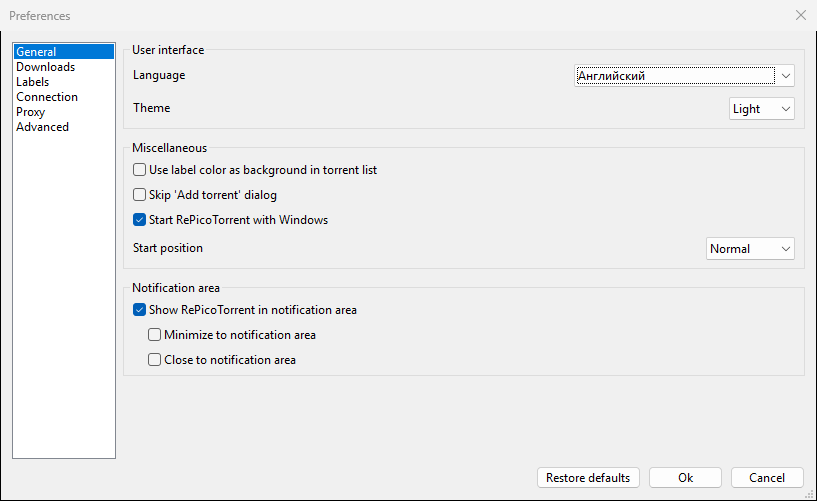
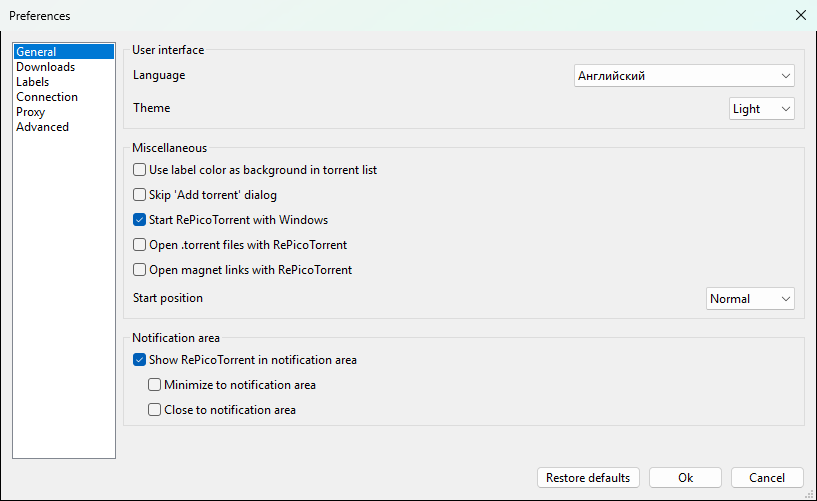
Open .torrent files and magnet links with RePicoTorrent
Preferences > General registers the program for the current user, so Windows lists it in Open with and Default apps; if another program is the default there, offers to open those settings.

diff --git a/src/picotorrent/ui/dialogs/preferencesgeneralpage.cpp b/src/picotorrent/ui/dialogs/preferencesgeneralpage.cpp
@@ -1,6 +1,11 @@
 #include "preferencesgeneralpage.hpp"
 
+#include <Shlwapi.h>
+#include <ShlObj.h>
+#include <shellapi.h>
 #include <strsafe.h>
+
+#include <vector>
 
 #include <boost/log/trivial.hpp>
 
@@ -78,6 +83,128 @@ private:
     HKEY m_key;
 };
 
+// Per-user registration (HKCU, no admin) of .torrent files or magnet links.
+// It makes Windows list RePicoTorrent in "Open with" and in Default apps; it
+// becomes the default only while the user has not picked another program
+// there - Windows does not let programs take a picked default over.
+struct Association
+{
+    // ext: ".torrent" or "magnet"
+    explicit Association(std::wstring ext)
+        : m_ext(std::move(ext)),
+        m_isProtocol(m_ext == L"magnet"),
+        m_progId(m_isProtocol ? L"RePicoTorrent.magnet" : L"RePicoTorrent.torrent")
+    {
+        wchar_t exe[MAX_PATH];
+        GetModuleFileName(NULL, exe, ARRAYSIZE(exe));
+        m_exe = exe;
+    }
+
+    // Whether Windows opens them with this copy of the program.
+    bool IsDefault()
+    {
+        wchar_t exe[MAX_PATH];
+        DWORD size = ARRAYSIZE(exe);
+
+        // 0x1000 is ASSOCF_IS_PROTOCOL (Windows 8), hidden by our _WIN32_WINNT.
+        return AssocQueryString(m_isProtocol ? 0x1000 : ASSOCF_NONE, ASSOCSTR_EXECUTABLE,
+            m_ext.c_str(), L"open", exe, &size) == S_OK
+            && _wcsicmp(exe, m_exe.c_str()) == 0;
+    }
+
+    void Register()
+    {
+        std::wstring const command = L"\"" + m_exe + L"\" \"%1\"";
+        std::wstring const icon = L"\"" + m_exe + L"\",0";
+
+        // Magnet links go to the protocol key itself as well: browsers look
+        // there when no default is picked.
+        for (auto const& key : m_isProtocol ? std::vector{ m_progId, m_ext } : std::vector{ m_progId })
+        {
+            Set(Classes + key, L"", m_isProtocol ? L"URL:Magnet link" : L"BitTorrent file");
+            if (m_isProtocol) { Set(Classes + key, L"URL Protocol", L""); }
+            Set(Classes + key + L"\\DefaultIcon", L"", icon);
+            Set(Classes + key + L"\\shell\\open\\command", L"", command);
+        }
+
+        if (!m_isProtocol)
+        {
+            Set(Classes + m_ext, L"", m_progId);
+            Set(Classes + m_ext + L"\\OpenWithProgids", m_progId, L"");
+        }
+
+        Set(Capabilities, L"ApplicationName", L"RePicoTorrent");
+        Set(Capabilities, L"ApplicationDescription", L"BitTorrent client");
+        Set(CapabilitiesList(), m_ext, m_progId);
+        Set(L"Software\\RegisteredApplications", L"RePicoTorrent", Capabilities);
+
+        SHChangeNotify(SHCNE_ASSOCCHANGED, SHCNF_IDLIST, nullptr, nullptr);
+    }
+
+    // Takes back what Register wrote, leaving keys of other programs alone.
+    void Unregister()
+    {
+        RegDeleteTree(HKEY_CURRENT_USER, (Classes + m_progId).c_str());
+
+        if (m_isProtocol)
+        {
+            if (Get(Classes + m_ext + L"\\shell\\open\\command") == L"\"" + m_exe + L"\" \"%1\"")
+            {
+                RegDeleteTree(HKEY_CURRENT_USER, (Classes + m_ext).c_str());
+            }
+        }
+        else
+        {
+            if (Get(Classes + m_ext) == m_progId) { RegDeleteKeyValue(HKEY_CURRENT_USER, (Classes + m_ext).c_str(), nullptr); }
+            RegDeleteKeyValue(HKEY_CURRENT_USER, (Classes + m_ext + L"\\OpenWithProgids").c_str(), m_progId.c_str());
+            SHDeleteEmptyKey(HKEY_CURRENT_USER, (Classes + m_ext + L"\\OpenWithProgids").c_str());
+            SHDeleteEmptyKey(HKEY_CURRENT_USER, (Classes + m_ext).c_str());
+        }
+
+        RegDeleteKeyValue(HKEY_CURRENT_USER, CapabilitiesList().c_str(), m_ext.c_str());
+
+        // The other kind may still be registered.
+        if (Get(Classes + L"RePicoTorrent.torrent").empty() && Get(Classes + L"RePicoTorrent.magnet").empty())
+        {
+            RegDeleteTree(HKEY_CURRENT_USER, L"Software\\RePicoTorrent");
+            RegDeleteKeyValue(HKEY_CURRENT_USER, L"Software\\RegisteredApplications", L"RePicoTorrent");
+        }
+
+        SHChangeNotify(SHCNE_ASSOCCHANGED, SHCNF_IDLIST, nullptr, nullptr);
+    }
+
+private:
+    static inline std::wstring const Classes = L"Software\\Classes\\";
+    static inline std::wstring const Capabilities = L"Software\\RePicoTorrent\\Capabilities";
+
+    std::wstring CapabilitiesList()
+    {
+        return Capabilities + (m_isProtocol ? L"\\URLAssociations" : L"\\FileAssociations");
+    }
+
+    static void Set(std::wstring const& key, std::wstring const& name, std::wstring const& value)
+    {
+        RegSetKeyValue(HKEY_CURRENT_USER, key.c_str(), name.empty() ? nullptr : name.c_str(), REG_SZ,
+            value.c_str(), static_cast<DWORD>((value.size() + 1) * sizeof(wchar_t)));
+    }
+
+    // The default value of a key, or "".
+    static std::wstring Get(std::wstring const& key)
+    {
+        wchar_t value[MAX_PATH * 2];
+        DWORD size = sizeof(value);
+
+        return RegGetValue(HKEY_CURRENT_USER, key.c_str(), nullptr, RRF_RT_REG_SZ, nullptr, value, &size) == ERROR_SUCCESS
+            ? value
+            : L"";
+    }
+
+    std::wstring m_ext;
+    bool m_isProtocol;
+    std::wstring m_progId;
+    std::wstring m_exe;
+};
+
 using pt::Core::Configuration;
 using pt::UI::Dialogs::PreferencesGeneralPage;
 
@@ -103,6 +230,8 @@ PreferencesGeneralPage::PreferencesGeneralPage(wxWindow* parent, std::shared_ptr
     m_skipAddTorrentDialog = new wxCheckBox(miscSizer->GetStaticBox(), wxID_ANY, i18n("skip_add_torrent_dialog"));
     m_autoStart = new wxCheckBox(miscSizer->GetStaticBox(), wxID_ANY, i18n("start_with_windows"));
     m_startPosition = new wxChoice(miscSizer->GetStaticBox(), wxID_ANY);
+    m_associateTorrents = new wxCheckBox(miscSizer->GetStaticBox(), wxID_ANY, i18n("associate_torrent_files"));
+    m_associateMagnets = new wxCheckBox(miscSizer->GetStaticBox(), wxID_ANY, i18n("associate_magnet_links"));
 
     miscGrid->AddGrowableCol(1, 1);
     miscGrid->Add(m_labelColor, 0, wxALIGN_CENTER_VERTICAL);
@@ -110,6 +239,10 @@ PreferencesGeneralPage::PreferencesGeneralPage(wxWindow* parent, std::shared_ptr
     miscGrid->Add(m_skipAddTorrentDialog, 0, wxALIGN_CENTER_VERTICAL);
     miscGrid->Add(0, 0);
     miscGrid->Add(m_autoStart, 0, wxALIGN_CENTER_VERTICAL);
+    miscGrid->Add(0, 0);
+    miscGrid->Add(m_associateTorrents, 0, wxALIGN_CENTER_VERTICAL);
+    miscGrid->Add(0, 0);
+    miscGrid->Add(m_associateMagnets, 0, wxALIGN_CENTER_VERTICAL);
     miscGrid->Add(0, 0);
     miscGrid->Add(new wxStaticText(miscSizer->GetStaticBox(), wxID_ANY, i18n("start_position")), 0, wxALIGN_CENTER_VERTICAL);
     miscGrid->Add(m_startPosition, 1, wxALIGN_RIGHT | wxALIGN_CENTER_VERTICAL);
@@ -167,6 +300,9 @@ PreferencesGeneralPage::PreferencesGeneralPage(wxWindow* parent, std::shared_ptr
     {
         m_autoStart->SetValue(true);
     }
+
+    m_associateTorrents->SetValue(Association(L".torrent").IsDefault());
+    m_associateMagnets->SetValue(Association(L"magnet").IsDefault());
 
     m_startPosition->Append(i18n("normal"), new ClientData<Configuration::WindowState>(Configuration::WindowState::Normal));
     m_startPosition->Append(i18n("minimized"), new ClientData<Configuration::WindowState>(Configuration::WindowState::Minimized));
@@ -249,6 +385,34 @@ void PreferencesGeneralPage::Save(bool* restartRequired)
         {
             key.Create();
         }
+    }
+
+    // Only a change is applied: another copy of the program may be the
+    // registered one, and merely saving here must not take that over.
+    bool notDefault = false;
+
+    for (auto [box, ext] : { std::pair{ m_associateTorrents, L".torrent" }, std::pair{ m_associateMagnets, L"magnet" } })
+    {
+        Association assoc(ext);
+
+        if (box->GetValue() == assoc.IsDefault()) { continue; }
+
+        if (box->GetValue())
+        {
+            assoc.Register();
+            notDefault = notDefault || !assoc.IsDefault();
+        }
+        else
+        {
+            assoc.Unregister();
+        }
+    }
+
+    // Registered, but the user had picked another program in Windows.
+    if (notDefault
+        && wxMessageBox(i18n("associate_pick_in_windows"), "RePicoTorrent", wxYES_NO | wxICON_INFORMATION, this) == wxYES)
+    {
+        ShellExecute(NULL, L"open", L"ms-settings:defaultapps?registeredAppUser=RePicoTorrent", NULL, NULL, SW_SHOWNORMAL);
     }
 
     m_cfg->Set("use_label_as_list_bgcolor", m_labelColor->GetValue());

diff --git a/src/picotorrent/ui/dialogs/preferencesgeneralpage.hpp b/src/picotorrent/ui/dialogs/preferencesgeneralpage.hpp
@@ -34,6 +34,8 @@ namespace Dialogs
         wxCheckBox* m_labelColor;
         wxCheckBox* m_skipAddTorrentDialog;
         wxCheckBox* m_autoStart;
+        wxCheckBox* m_associateTorrents;
+        wxCheckBox* m_associateMagnets;
         wxChoice* m_startPosition;
         wxCheckBox* m_showNotificationIcon;
         wxCheckBox* m_minimizeNotification;

diff --git a/doc/DOC.ru-RU.md b/doc/DOC.ru-RU.md
@@ -174,6 +174,10 @@ dl > 500kbps
   включается вслед за настройкой Windows).
 - **Пропускать окно "Добавить торрент"**, **Запускать RePicoTorrent при старте Windows**,
   **Режим запуска** окна.
+- **Открывать файлы .torrent в RePicoTorrent**, **Открывать magnet-ссылки в RePicoTorrent**: Windows
+  покажет RePicoTorrent в списке **Открыть с помощью** и в параметрах
+  «Приложения по умолчанию». Если там уже выбрана другая программа,
+  RePicoTorrent предложит открыть эти параметры и выбрать себя.
 - **Показывать RePicoTorrent в области уведомлений**, а также сворачивать ли туда
   окно при сворачивании или закрытии.
 

diff --git a/doc/DOC.hi-IN.md b/doc/DOC.hi-IN.md
@@ -170,6 +170,7 @@ dl > 500kbps
   सेटिंग का पालन करती है)।
 - **छोड़ें 'धार जोड़ें' संवाद**, **Windows के साथ RePicoTorrent शुरू करें**, विंडो की
   **प्रारंभ स्थान**।
+- **Open .torrent files with RePicoTorrent**, **Open magnet links with RePicoTorrent**
 - **सूचना क्षेत्र में RePicoTorrent दिखाएं**, और क्या विंडो को छोटा करने या
   बंद करने पर वह वहाँ छिप जाए।
 

diff --git a/doc/DOC.bg-BG.md b/doc/DOC.bg-BG.md
@@ -174,6 +174,7 @@ dl > 500kbps
   следва настройката на Windows).
 - **Пропускане на диалог „Добавяне на торент“**, **Стартиране на RePicoTorrent с Windows**,
   **Режим на стартиране** на прозореца.
+- **Open .torrent files with RePicoTorrent**, **Open magnet links with RePicoTorrent**
 - **Показване на RePicoTorrent в областта за известия** и дали минимизирането или
   затварянето на прозореца го скрива там.
 

diff --git a/CHANGELOG.md b/CHANGELOG.md
@@ -5,6 +5,15 @@ Versions follow [Semantic Versioning](https://semver.org). A release is a
 
 ## Unreleased
 
+### New
+
+- **Preferences > General** can make RePicoTorrent open `.torrent` files
+  and magnet links. The program is registered for the current user only
+  and shows up in **Open with** and in the Windows Default apps settings.
+  If another program was already picked there, RePicoTorrent offers to
+  open those settings, because Windows does not let programs change that
+  choice themselves.
+
 ### Changed
 
 - **Download and install** in the update dialog shows how much of the

diff --git a/DOC.md b/DOC.md
@@ -167,6 +167,10 @@ program offers it.
   follows the Windows setting).
 - **Skip 'Add torrent' dialog**, **Start RePicoTorrent with Windows**,
   **Start position** of the window.
+- **Open .torrent files with RePicoTorrent**, **Open magnet links with RePicoTorrent**: Windows
+  then lists RePicoTorrent in **Open with** and in its Default apps
+  settings. If another program was picked there before, the program
+  offers to open those settings to pick RePicoTorrent.
 - **Show RePicoTorrent in notification area**, and whether minimizing or
   closing the window hides it there.
 

diff --git a/doc/DOC.el-GR.md b/doc/DOC.el-GR.md
@@ -180,6 +180,7 @@ dl > 500kbps
   ακολουθεί τη ρύθμιση των Windows).
 - **Παράκαμψη διαλόγου 'Προσθήκη torrent'**, **Εκκίνηση RePicoTorrent με τα Windows**,
   **Τύπος εκκίνησης** του παραθύρου.
+- **Open .torrent files with RePicoTorrent**, **Open magnet links with RePicoTorrent**
 - **Προβολή RePicoTorrent στην περιοχή ειδοποιήσεων**, και αν η ελαχιστοποίηση ή
   το κλείσιμο του παραθύρου το στέλνει εκεί.
 

diff --git a/doc/DOC.ar-SA.md b/doc/DOC.ar-SA.md
@@ -165,6 +165,7 @@ dl > 500kbps
 - **اللغة** و**Theme** (النظام أو فاتحة؛ السمة الداكنة تتبع إعداد
   Windows).
 - **تخطي واجهة إضافة بذرة** و**بدأ بيكوتورنت مع نظام تشغيل النوافد** و**بدأ التحديد**
+- **Open .torrent files with RePicoTorrent** و**Open magnet links with RePicoTorrent**
   للنافذة.
 - **أظهر بيكوتورنت في منطقة التنبيهات**، وهل يُخفي تصغير النافذة أو
   إغلاقها البرنامجَ هناك.

diff --git a/doc/DOC.uk-UA.md b/doc/DOC.uk-UA.md
@@ -171,6 +171,7 @@ dl > 500kbps
   вмикається слідом за налаштуванням Windows).
 - **Пропустити вікно «Додати торрент»**, **Запускати RePicoTorrent при завантаженні Windows**,
   **Режим запуску** вікна.
+- **Open .torrent files with RePicoTorrent**, **Open magnet links with RePicoTorrent**
 - **Показувати RePicoTorrent у треї**, а також чи ховати туди
   вікно при згортанні або закритті.
 

diff --git a/doc/DOC.ka-GE.md b/doc/DOC.ka-GE.md
@@ -177,6 +177,7 @@ dl > 500kbps
   პარამეტრს მიჰყვება).
 - **Skip 'Add torrent' dialog**, **RePicoTorrent-ის ჩართვა Windows-სთან ერთად**, ფანჯრის
   **დაწყების პოზიცია**.
+- **Open .torrent files with RePicoTorrent**, **Open magnet links with RePicoTorrent**
 - **Show RePicoTorrent in notification area** და ფანჯრის ჩაკეცვისას ან
   დახურვისას იქ დამალვა.
 

diff --git a/doc/DOC.hy-AM.md b/doc/DOC.hy-AM.md
@@ -179,6 +179,7 @@ dl > 500kbps
   է Windows-ի կարգավորմանը)։
 - **Skip 'Add torrent' dialog**, **Մեկնարկել RePicoTorrent-ը Windows-ի հետ։**, պատուհանի
   **Սկսման դիրքը**։
+- **Open .torrent files with RePicoTorrent**, **Open magnet links with RePicoTorrent**
 - **Ցույց տալ RePicoTorrent-ը ծանուցման տարածքում**, ինչպես նաև արդյոք
   պատուհանը փոքրացնելիս կամ փակելիս թաքցնել այնտեղ։
 
